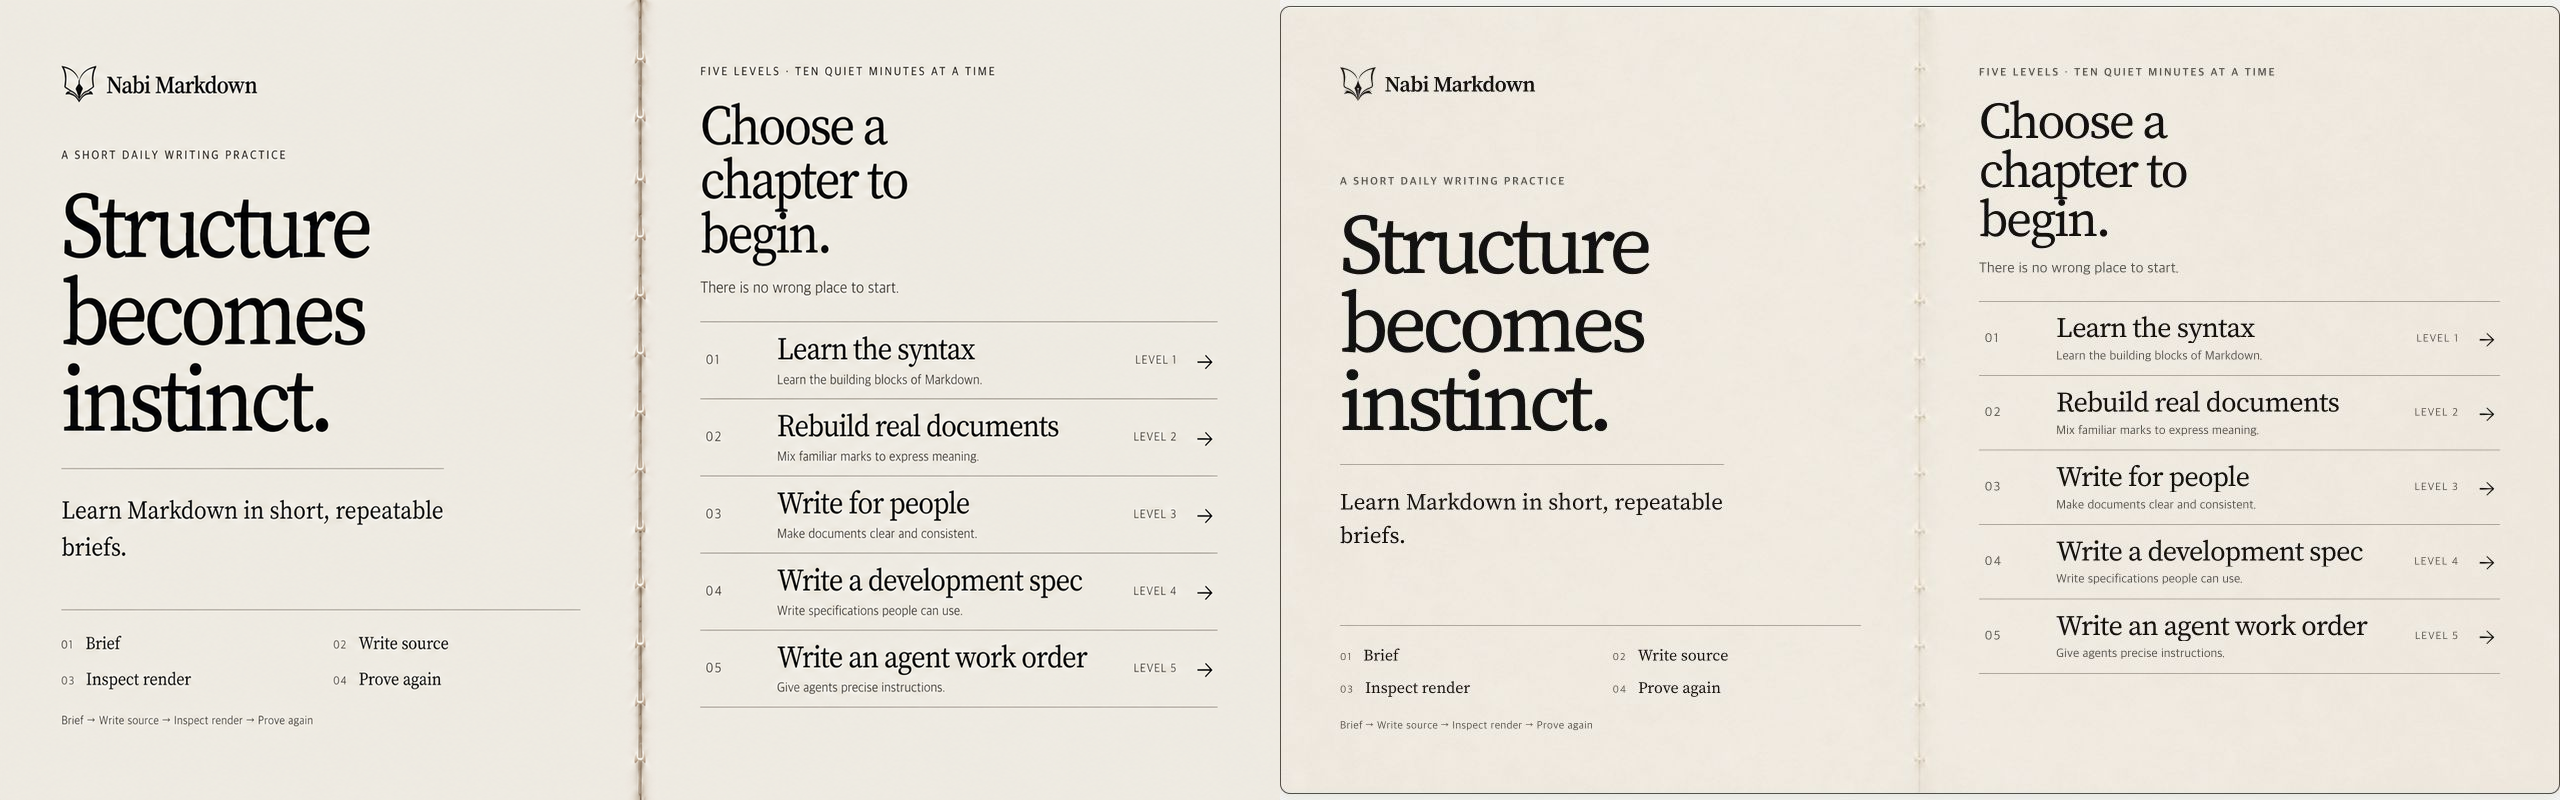
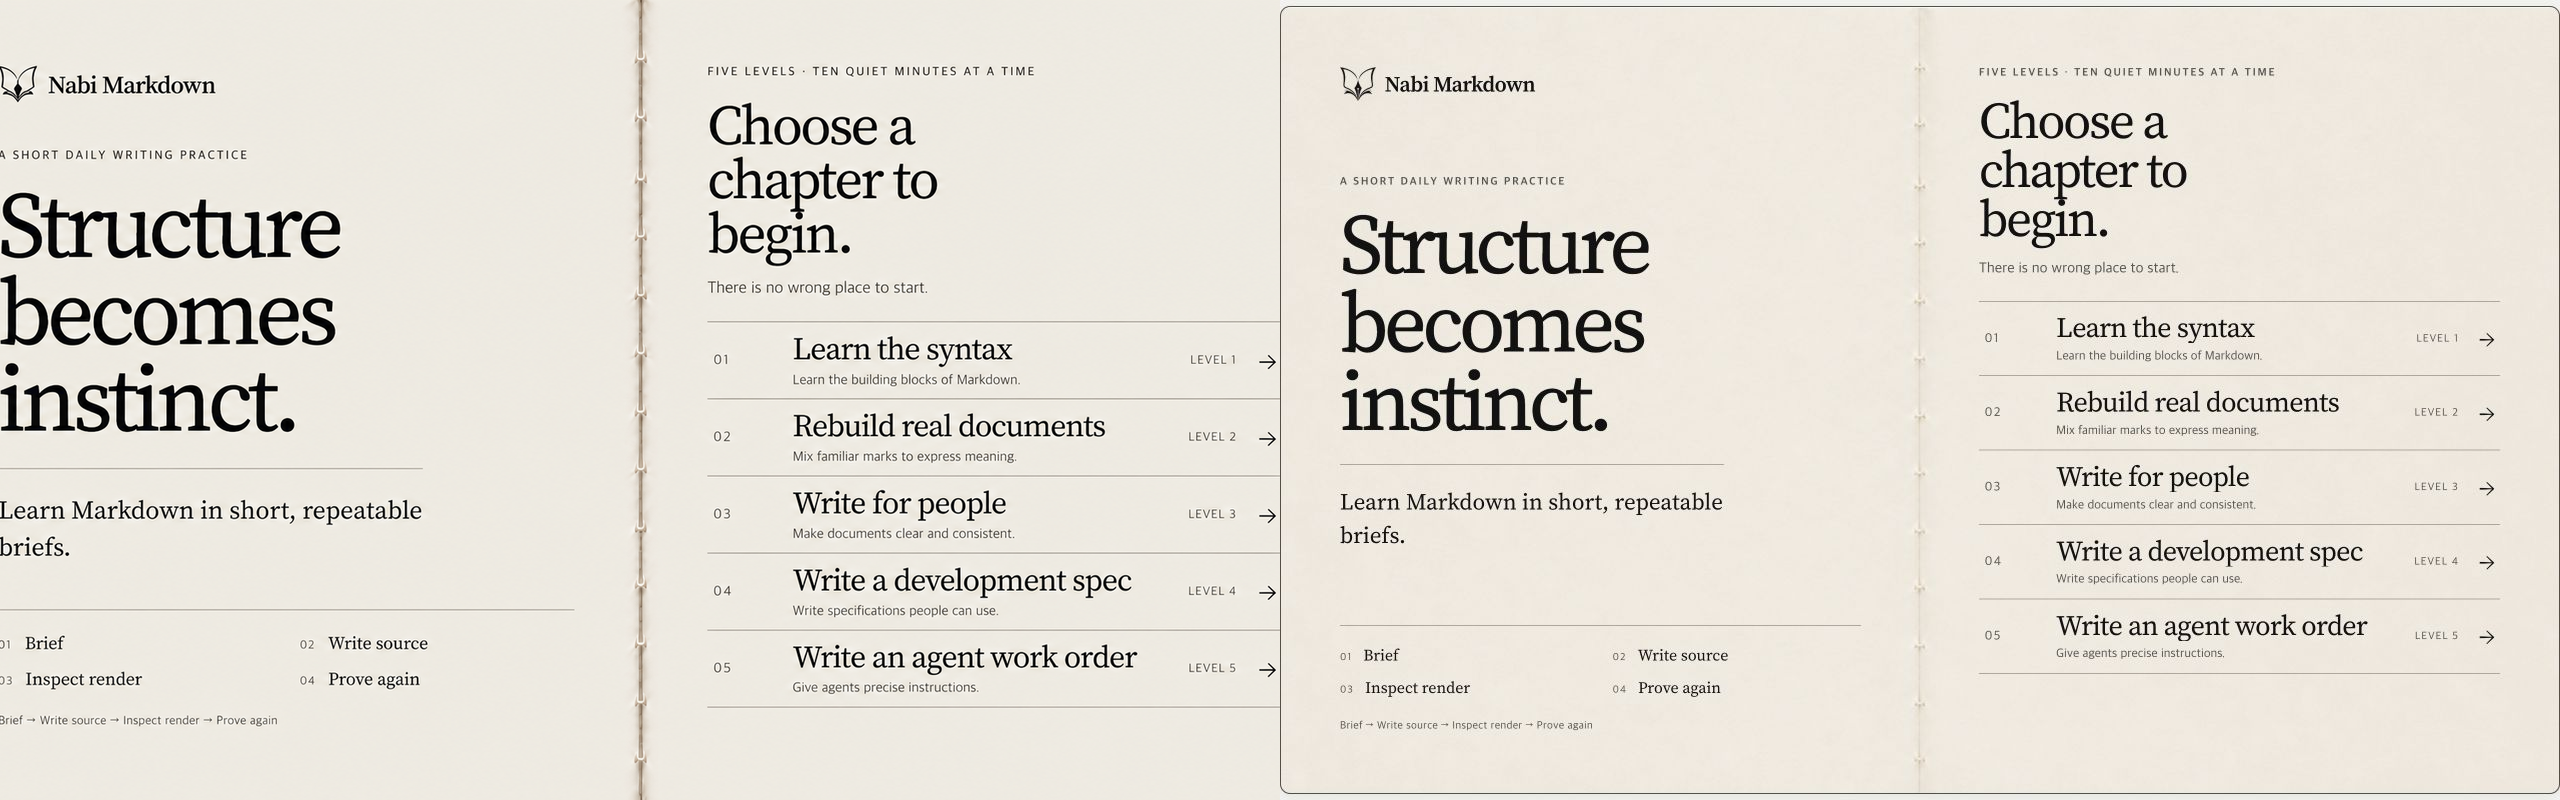
fix: keep the book fold fixed during page turns

diff --git a/src/styles/global.test.ts b/src/styles/global.test.ts
@@ -1,6 +1,6 @@
 /// <reference types="node" />
 
-import { existsSync, readFileSync } from "node:fs"
+import { existsSync, readFileSync, statSync } from "node:fs"
 import { resolve } from "node:path"
 import { describe, expect, it } from "vitest"
 
@@ -40,12 +40,19 @@ function lastCssBlock(selector: string): string {
 describe("global responsive styles", () => {
   it("uses one motionless open-book image for both sheets and the center fold", () => {
     expect(
-      existsSync(resolve(process.cwd(), "public/images/nabi-open-book-spread.png")),
+      existsSync(resolve(process.cwd(), "public/images/nabi-open-book-spread.webp")),
     ).toBe(true)
+    expect(
+      statSync(resolve(process.cwd(), "public/images/nabi-open-book-spread.webp"))
+        .size,
+    ).toBeLessThan(300_000)
+    expect(
+      existsSync(resolve(process.cwd(), "public/images/nabi-open-book-spread.png")),
+    ).toBe(false)
     expect(
       existsSync(resolve(process.cwd(), "public/images/nabi-book-spine.png")),
     ).toBe(false)
-    expect(styles).toContain('url("/images/nabi-open-book-spread.png")')
+    expect(styles).toContain('url("/images/nabi-open-book-spread.webp")')
     expect(styles).toContain('url("/images/nabi-writing-rule.png")')
     expect(styles).not.toContain("nabi-book-spine.png")
     expect(styles).not.toContain(".book-spine")
@@ -53,7 +60,7 @@ describe("global responsive styles", () => {
     expect(editorialDesk).not.toContain("BookSpine")
     expect(runSummary).not.toContain("BookSpine")
     expect(styles).toMatch(
-      /\.app-shell\s*\{[^{}]*background-image:\s*url\("\/images\/nabi-open-book-spread\.png"\)[^{}]*background-size:\s*100% 100%/s,
+      /\.app-shell\s*\{[^{}]*background-image:\s*url\("\/images\/nabi-open-book-spread\.webp"\)[^{}]*background-size:\s*100% 100%/s,
     )
     expect(styles).toMatch(
       /\.open-book-page\s*\{[^{}]*background:\s*transparent/s,
@@ -89,11 +96,11 @@ describe("global responsive styles", () => {
     expect(styles).toMatch(
       /\.page-turn-stage--active \.page-turn-receiver\s*\{[^{}]*animation:\s*none/s,
     )
-    expect(styles).not.toMatch(
+    expect(styles).toMatch(
       /\.open-book-shell--turning\s*\{[^{}]*background:\s*transparent/s,
     )
     expect(styles).toMatch(
-      /\.open-book-shell--turning \.open-book-page--intro\s*\{[^{}]*animation:\s*none/s,
+      /\.open-book-shell--turning \.open-book-page--intro\s*\{[^{}]*background-image:\s*url\("\/images\/nabi-book-paper\.png"\)[^{}]*animation:\s*none/s,
     )
     const turnKeyframes = styles.slice(
       styles.indexOf("@keyframes turn-page-forward"),
@@ -106,6 +113,21 @@ describe("global responsive styles", () => {
       /animation:\s*turn-page-forward var\(--page-turn-duration\)\s+linear both/,
     )
     expect(styles).not.toContain("@keyframes receive-next-page")
+  })
+
+  it("removes the two-page fold when the responsive layout stacks", () => {
+    const landingStack = styles.slice(
+      styles.indexOf("@media (max-width: 760px)"),
+      styles.indexOf("@media (prefers-reduced-motion: reduce)"),
+    )
+    const practiceStack = lastCssBlock("@media (max-width: 900px)")
+
+    expect(landingStack).toMatch(
+      /\.app-shell\.open-book-shell\s*\{[^{}]*background-image:\s*url\("\/images\/nabi-book-paper\.png"\)[^{}]*background-repeat:\s*repeat/s,
+    )
+    expect(practiceStack).toMatch(
+      /\.app-shell--practice\s*\{[^{}]*background-image:\s*url\("\/images\/nabi-book-paper\.png"\)[^{}]*background-repeat:\s*repeat/s,
+    )
   })
 
   it("keeps each desktop Summary page internally scrollable", () => {

diff --git a/src/styles/global.css b/src/styles/global.css
@@ -94,7 +94,7 @@ button:focus-visible,
   border: 1px solid rgb(17 17 17 / 72%);
   border-radius: 10px;
   background-color: var(--book-paper);
-  background-image: url("/images/nabi-open-book-spread.png");
+  background-image: url("/images/nabi-open-book-spread.webp");
   background-position: center;
   background-repeat: no-repeat;
   background-size: 100% 100%;
@@ -412,9 +412,12 @@ button:focus-visible,
 
 .open-book-shell--turning {
   border-color: transparent;
+  background: transparent;
 }
 
 .open-book-shell--turning .open-book-page--intro {
+  background-color: var(--book-paper);
+  background-image: url("/images/nabi-book-paper.png");
   opacity: 1;
   animation: none;
 }
@@ -462,6 +465,12 @@ button:focus-visible,
 }
 
 @media (max-width: 760px) {
+  .app-shell.open-book-shell {
+    background-image: url("/images/nabi-book-paper.png");
+    background-repeat: repeat;
+    background-size: auto;
+  }
+
   .open-book-shell {
     display: block;
     overflow-y: auto;
@@ -1754,6 +1763,12 @@ button:focus-visible,
 }
 
 @media (max-width: 900px) {
+  .app-shell--practice {
+    background-image: url("/images/nabi-book-paper.png");
+    background-repeat: repeat;
+    background-size: auto;
+  }
+
   .exercise-topbar {
     grid-template-columns: auto minmax(0, 1fr) auto;
     min-height: 72px;

diff --git a/design-qa.md b/design-qa.md
@@ -31,8 +31,8 @@
   layer interrupts the paper at the center.
 - Image quality and asset fidelity: both sheets, their paper texture, the
   stitched fold, and its tonal falloff are one `1280 × 800` raster asset,
-  `public/images/nabi-open-book-spread.png`. There is no separate spine DOM
-  element or center-shadow construction.
+  `public/images/nabi-open-book-spread.webp` (4.8 KB). There is no separate
+  spine DOM element or center-shadow construction.
 - Copy and content: the production problem-bank content differs from the static
   visual reference as expected; UI labels and curriculum hierarchy are intact.
 
@@ -44,6 +44,8 @@
 - After the turn, the editor receives focus and both writing sheets scroll
   internally.
 - Browser console warnings/errors: 0.
+- Full repository gate: `npm run check` passed with 54 test files and 9,927
+  tests, followed by the production build and bundle verification.
 
 ## Comparison history
 
@@ -53,8 +55,10 @@
 2. The first unified-asset pass left the Landing shell transparent because a
    later `.open-book-shell` shorthand erased the parent background. The
    midpoint comparison exposed content bleeding through the turning page.
-3. The transparent shorthand and receiving-screen animation were removed.
-   Fresh full-view and focused comparisons now show a motionless continuous
-   spread, a lighter integrated fold, and motion confined to the page leaf.
+3. The receiving Practice spread now stays visible beneath the transition.
+   The old left page is a temporary opaque paper surface, while only the
+   opaque right leaf crosses the fixed fold.
+4. Stacked layouts replace the spread raster with the neutral paper texture,
+   so a vertical book fold is never stretched into a mobile interface.
 
 final result: passed

diff --git a/docs/superpowers/specs/2026-07-20-open-book-practice-design.md b/docs/superpowers/specs/2026-07-20-open-book-practice-design.md
@@ -69,13 +69,13 @@ This redesign changes presentation and the location of Hint. It does not change 
 ## Book geometry and paper system
 
 - The workspace is one open-book surface with thin dark outer edges, restrained inner-page shadow, ruled paper, and a realistic stitched center seam.
-- Greeting and Practice share one narrow center-spine image asset: warm folded paper, symmetrical inner shadows, a fine seam, and restrained binding stitches. Content remains HTML and CSS.
-- The spine is fixed throughout the page turn. It is not regenerated as CSS art and is not a full-screen background image.
+- Greeting and Practice share one optimized raster containing both warm paper sheets and their restrained stitched center fold. The fold is inseparable from the paper pixels; there is no separate spine image, DOM layer, pseudo-element, or CSS-drawn seam. Content remains HTML and CSS above transparent page surfaces.
+- The unified spread is fixed throughout the page turn. The receiving Practice spread is already visible beneath the transition; only the opaque right leaf moves, while the outgoing left page uses a temporary opaque paper surface to prevent content bleed-through.
 - On desktop the two pages form a strict 50:50 spread. Their top alignment and baseline rhythm match.
 - Remove visible `GOAL`, `YOUR WRITING`, repeated level labels, chapter labels, and other page explanations.
 - The left fixed target is identified by a small bullseye icon. The right modes are identified by their tab icons.
 - There are no dashboard gaps, floating cards, rounded page panels, decorative gradients, ornamental colors, or unrelated entrance animation.
-- On the stacked mobile layout, hide the physical center-spine asset because the pages no longer meet horizontally.
+- On the stacked mobile layout, replace the two-page spread raster with the neutral repeating paper texture because the pages no longer meet horizontally.
 
 ## Goal page
 
@@ -127,7 +127,7 @@ This redesign changes presentation and the location of Hint. It does not change 
 - Stage 2, approximately 220-520 ms: the leaf passes the center; the revealed paper moves through an intermediate ivory while shadow and restrained page highlight make the work surface feel gently illuminated.
 - Stage 3, approximately 520-720 ms: Practice settles into a warm-neutral work ivory that is brighter than Greeting but is neither stark white nor yellow beige. The moving shadow collapses into the static inner-page shadow.
 - The transition coordinates page rotation, paper background color, restrained brightness, and moving shadow. Do not add a literal lamp, spotlight, glow orb, persistent decorative gradient, or full-screen raster backdrop.
-- Keep the stitched spine fixed and visually continuous for the entire transition.
+- Keep the unified spread fixed and visually continuous for the entire transition. Never animate the fold or add another image above it.
 - Play the existing `src/sound/nabi-page-turn.mp3` once from the already unlocked sound channel when the physical leaf begins to move. The animation must not wait for audio playback, and muted preference suppresses it as it does today.
 - Practice does not replay the book animation when tabs, verdicts, or exercises change.
 - Under `prefers-reduced-motion: reduce`, skip the 3D turn and moving shadow. Use the existing 120 ms paper-color crossfade; the page-turn sound still follows the user's sound preference rather than motion preference.
@@ -135,7 +135,7 @@ This redesign changes presentation and the location of Hint. It does not change 
 ## Responsive behavior
 
 - At 1280 x 800, the complete fixed strip and book frame fit within one browser viewport. Only page interiors may scroll.
-- Below 900 px, stack Goal above the answer page inside the remaining viewport height. Give each an equal share and independent internal scroll, hide the physical spine, and retain the same controls without horizontal overflow.
+- Below 900 px, stack Goal above the answer page inside the remaining viewport height. Give each an equal share and independent internal scroll, swap the spread for neutral paper without a fold, and retain the same controls without horizontal overflow.
 - On narrow layouts, preserve icon tooltips or equivalent accessible descriptions, keyboard operation, focus visibility, and minimum targets.
 
 ## Component boundaries
@@ -146,7 +146,7 @@ This redesign changes presentation and the location of Hint. It does not change 
 - `AnswerPanel` owns Write, Preview or Review, and Hint tabs plus keyboard navigation.
 - A focused presentation helper may derive compact syntax examples from `GradableProblem`. It remains deterministic and adds no runtime AI or external data.
 - A shared ruled-page treatment aligns Goal rendering and CodeMirror without changing the Markdown renderer or editor document model.
-- A shared book-spine component or pseudo-element uses the generated narrow spine asset on Greeting and Practice so the seam cannot visually drift between routes.
+- The app shell owns one shared two-page-and-fold raster on Greeting, Practice, and Summary. Child page surfaces stay transparent, and no component or pseudo-element may recreate or reposition the fold.
 
 ## Accessibility and regression contract
 

diff --git a/docs/design/qa/open-book-landing-design-qa.md b/docs/design/qa/open-book-landing-design-qa.md
@@ -162,7 +162,7 @@ final result: passed
 This correction supersedes the separate stitched-spine implementation above.
 The physical book is now one image: both page surfaces, the paper texture, and
 the center fold are inseparable pixels in
-`public/images/nabi-open-book-spread.png`. `BookSpine` no longer exists in the
+`public/images/nabi-open-book-spread.webp`. `BookSpine` no longer exists in the
 component tree, and no center shadow is constructed in CSS.
 
 - Landing comparison: `docs/design/qa/unified-book-spread-landing-comparison.png`